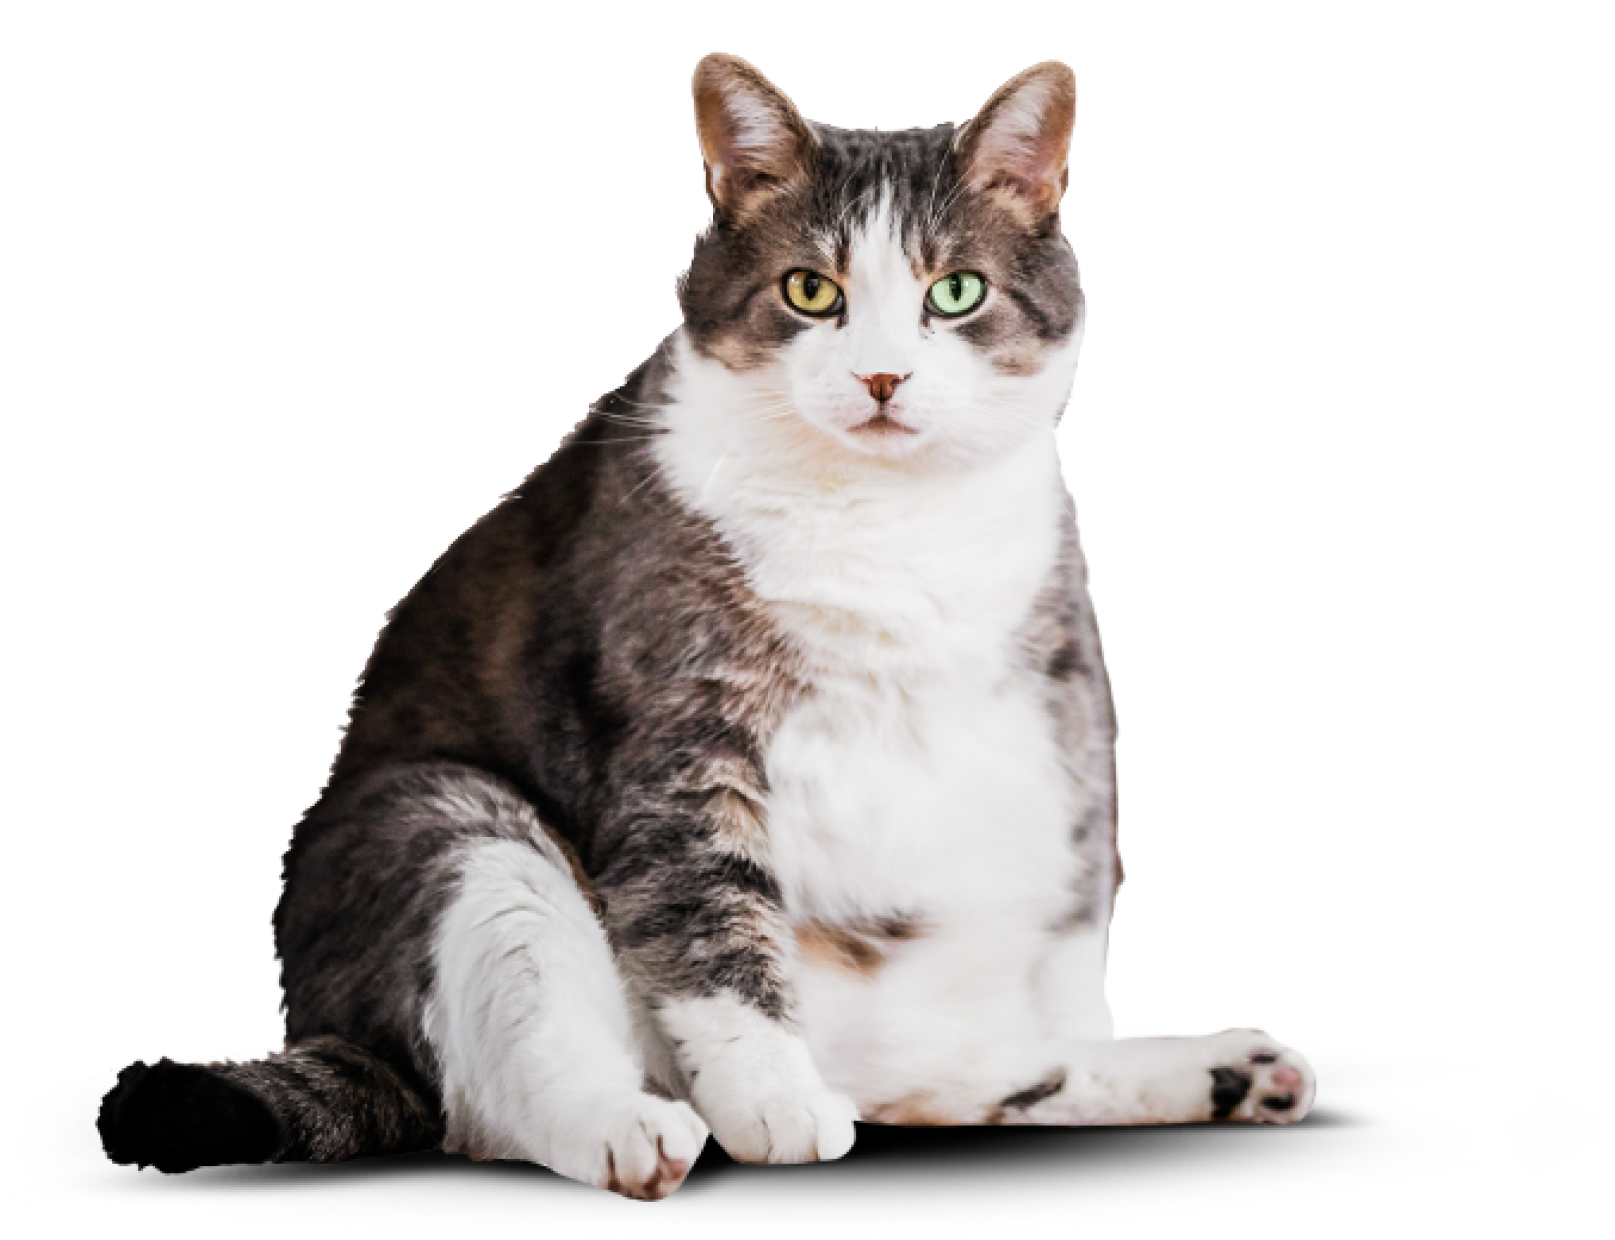
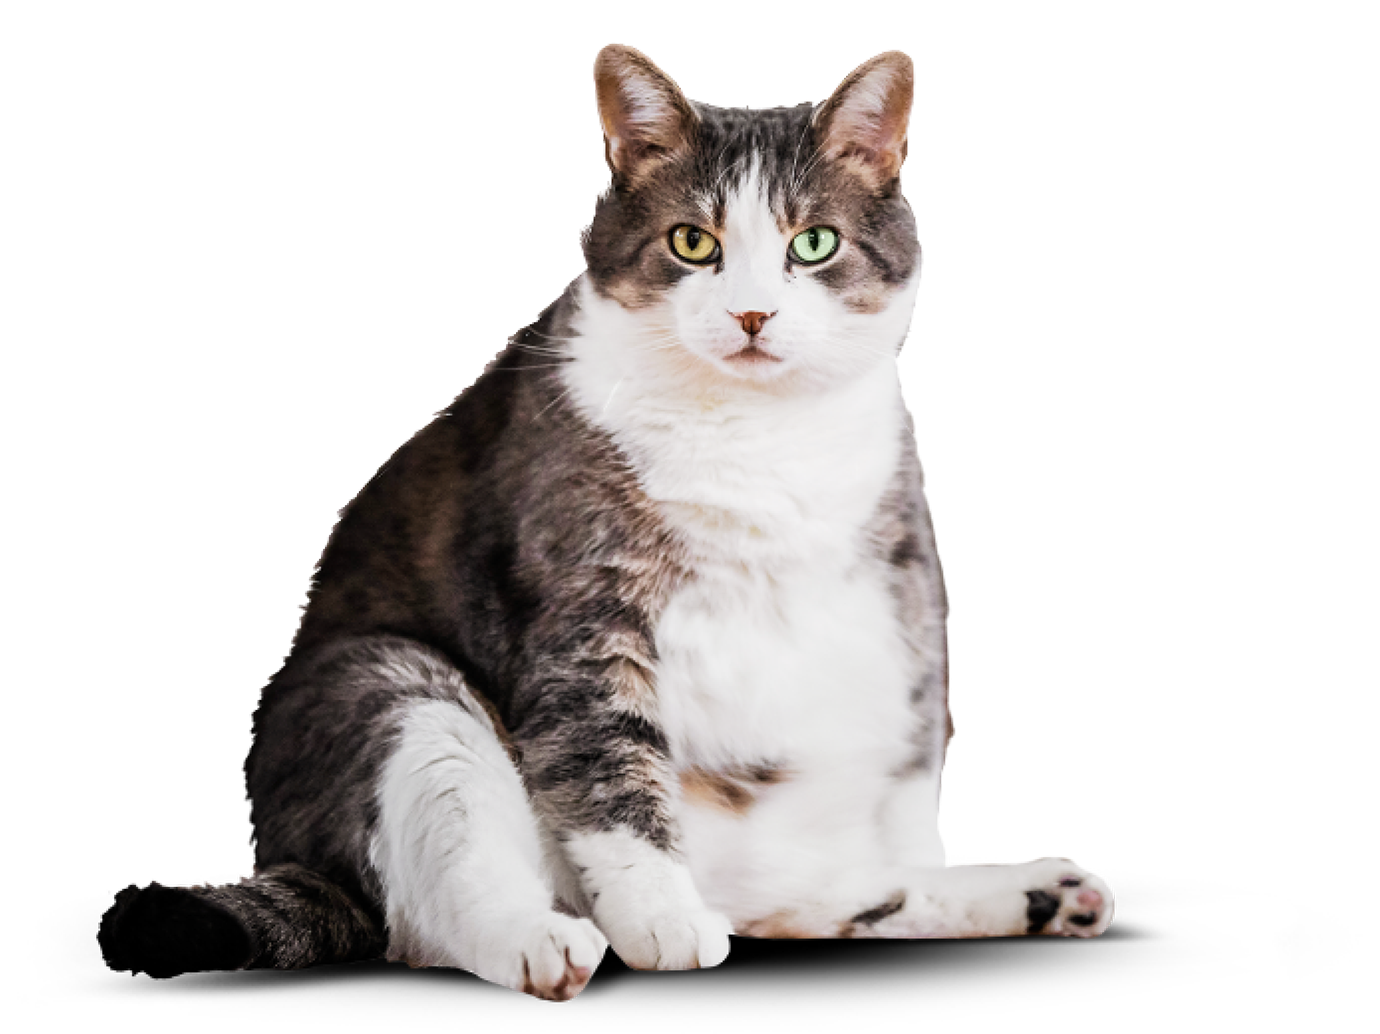
JS Slider

diff --git a/source/Index.html b/source/Index.html
@@ -314,22 +314,26 @@
 
             <div class="slider">
               <div class="slider--wrap">
-                <picture class="slider__pic">
-                  <img
-                    class="slider__img--before slider__pic--cat-skinny-img slider__off"
-                    src="img/slider/cat-skinny.png"
-                    srcset="img/slider/cat-skinny.png@2x.png @2x.png 2x"
-                    alt=""
-                  />
-                </picture>
-                <picture class="slider__pic">
-                  <img
-                    class="slider__img--before slider__pic--cat-skinny-fat"
-                    src="img/slider/cat-fat.png"
-                    srcset="img/slider/cat-fat@2x.png @2x.png 2x"
-                    alt=""
-                  />
-                </picture>
+                <div class="slider-slide slider-slide--one">
+                  <picture class="slider__pic">
+                    <img
+                      class="slider__img--before slider__pic--cat-fat"
+                      src="img/slider/cat-fat.png"
+                      srcset="img/slider/cat-fat@2x.png @2x.png 2x"
+                      alt=""
+                    />
+                  </picture>
+                </div>
+                <div class="slider-slide slider-silde--two slider__off">
+                  <picture class="slider__pic">
+                    <img
+                      class="slider__img--before slider__pic--cat-skinny"
+                      src="img/slider/cat-skinny.png"
+                      srcset="img/slider/cat-skinny.png@2x.png @2x.png 2x"
+                      alt=""
+                    />
+                  </picture>
+                </div>
               </div>
               <div class="slider__control">
                 <button class="slider__button slider__button--left">

diff --git a/source/less/blocks/Index/slider.less b/source/less/blocks/Index/slider.less
@@ -3,7 +3,6 @@
 
   @media (min-width: @tablet-width) {
     padding-bottom: 55px;
-    background-color: @special-grey-three;
 
     @media (min-width: @desktop-width) {
       height: 657px;
@@ -22,7 +21,8 @@
   @media (min-width: @tablet-width) {
     background: linear-gradient(to top, #eaeaea 66%, white 34%);
     height: 542px;
-    overflow: hiden;
+    overflow: visible;
+    width: 705px;
 
     @media (min-width: @desktop-width) {
       width: 650px;
@@ -33,11 +33,37 @@
   }
 }
 
+.slider-slide {
+  @media (min-width: @tablet-width) {
+    position: absolute;
+    display: flex;
+  }
+}
+
+.slider-slide--one {
+  @media (min-width: @tablet-width) {
+    z-index: 1;
+    left: 17px;
+    width: 50%;
+  }
+}
+
+.slider-silde--two {
+  @media (min-width: @tablet-width) {
+    left: 115px;
+    align-items: flex-end;
+    width: 50%;
+  }
+}
+
 .slider__pic {
   @media (min-width: @tablet-width) {
     display: flex;
-    justify-content: center;
-    position: absolute;
+    background: linear-gradient(to top, #eaeaea 67%, white 35%);
+
+    @media (min-width: @desktop-width) {
+      background: linear-gradient(to top, #eaeaea 66%, white 35%);
+    }
   }
 }
 
@@ -48,16 +74,14 @@
   @media (min-width: @tablet-width) {
     height: 510px;
     object-fit: cover;
-    background: linear-gradient(to top, #eaeaea 67%, white 34%);
-
-    @media (min-width: @desktop-width) {
-      background: linear-gradient(to top, #eaeaea 66%, white 34%);
-    }
   }
 }
 
 .slider__off {
   display: none;
+  @media (min-width: @tablet-width) {
+    display: flex;
+  }
 }
 
 .slider--desk {
@@ -156,7 +180,7 @@
   }
 }
 
-.slider__pic--cat-skinny-fat {
+.slider__pic--cat-fat {
   @media (min-width: @tablet-width) {
     object-position: left;
   }

diff --git a/source/js/script.js b/source/js/script.js
@@ -88,8 +88,8 @@ let sliderButtonLeft = document.querySelector(".slider__button--left");
 let sliderButtonRight = document.querySelector(".slider__button--right");
 let slideLeft = document.querySelector(".slider__indication-bar--left");
 let slideRight = document.querySelector(".slider__indication-bar--right");
-let fatCat = document.querySelector(".slider__pic--cat-skinny-fat");
-let skinnyCat = document.querySelector(".slider__pic--cat-skinny-img");
+let fatCat = document.querySelector(".slider-slide--one");
+let skinnyCat = document.querySelector(".slider-silde--two");
 
 sliderButtonRight.addEventListener("click", function (evt) {
   evt.preventDefault();
